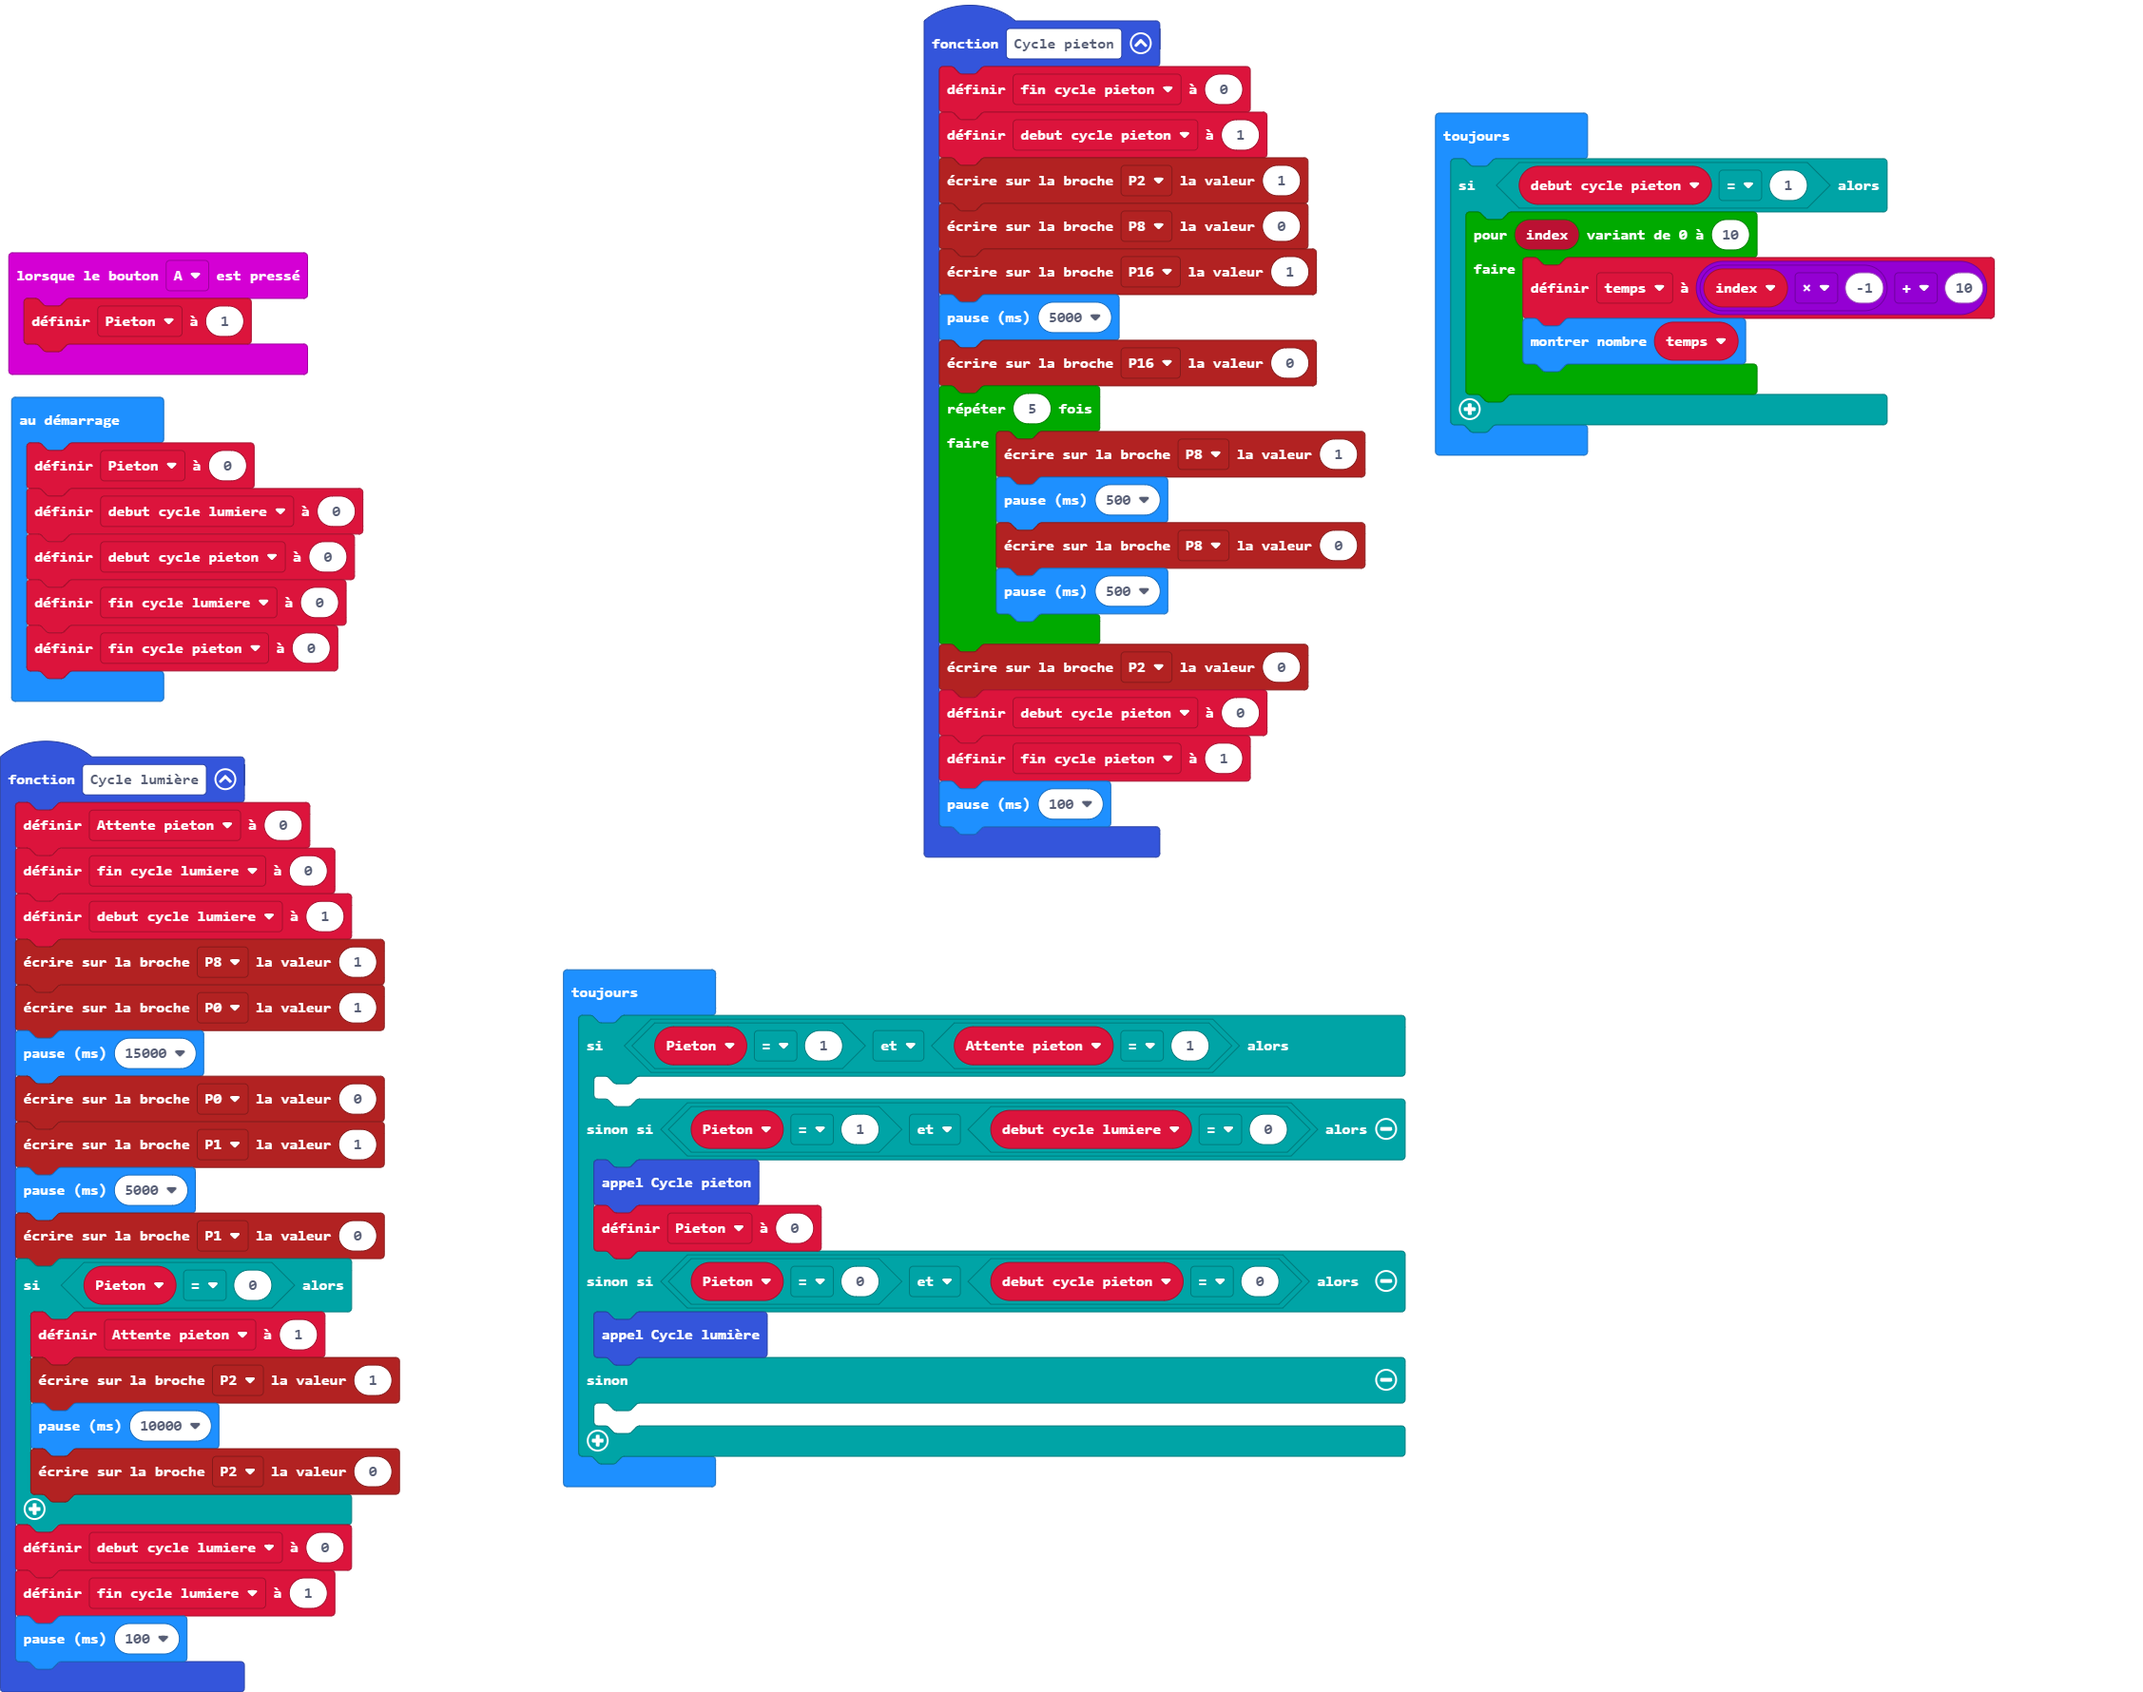
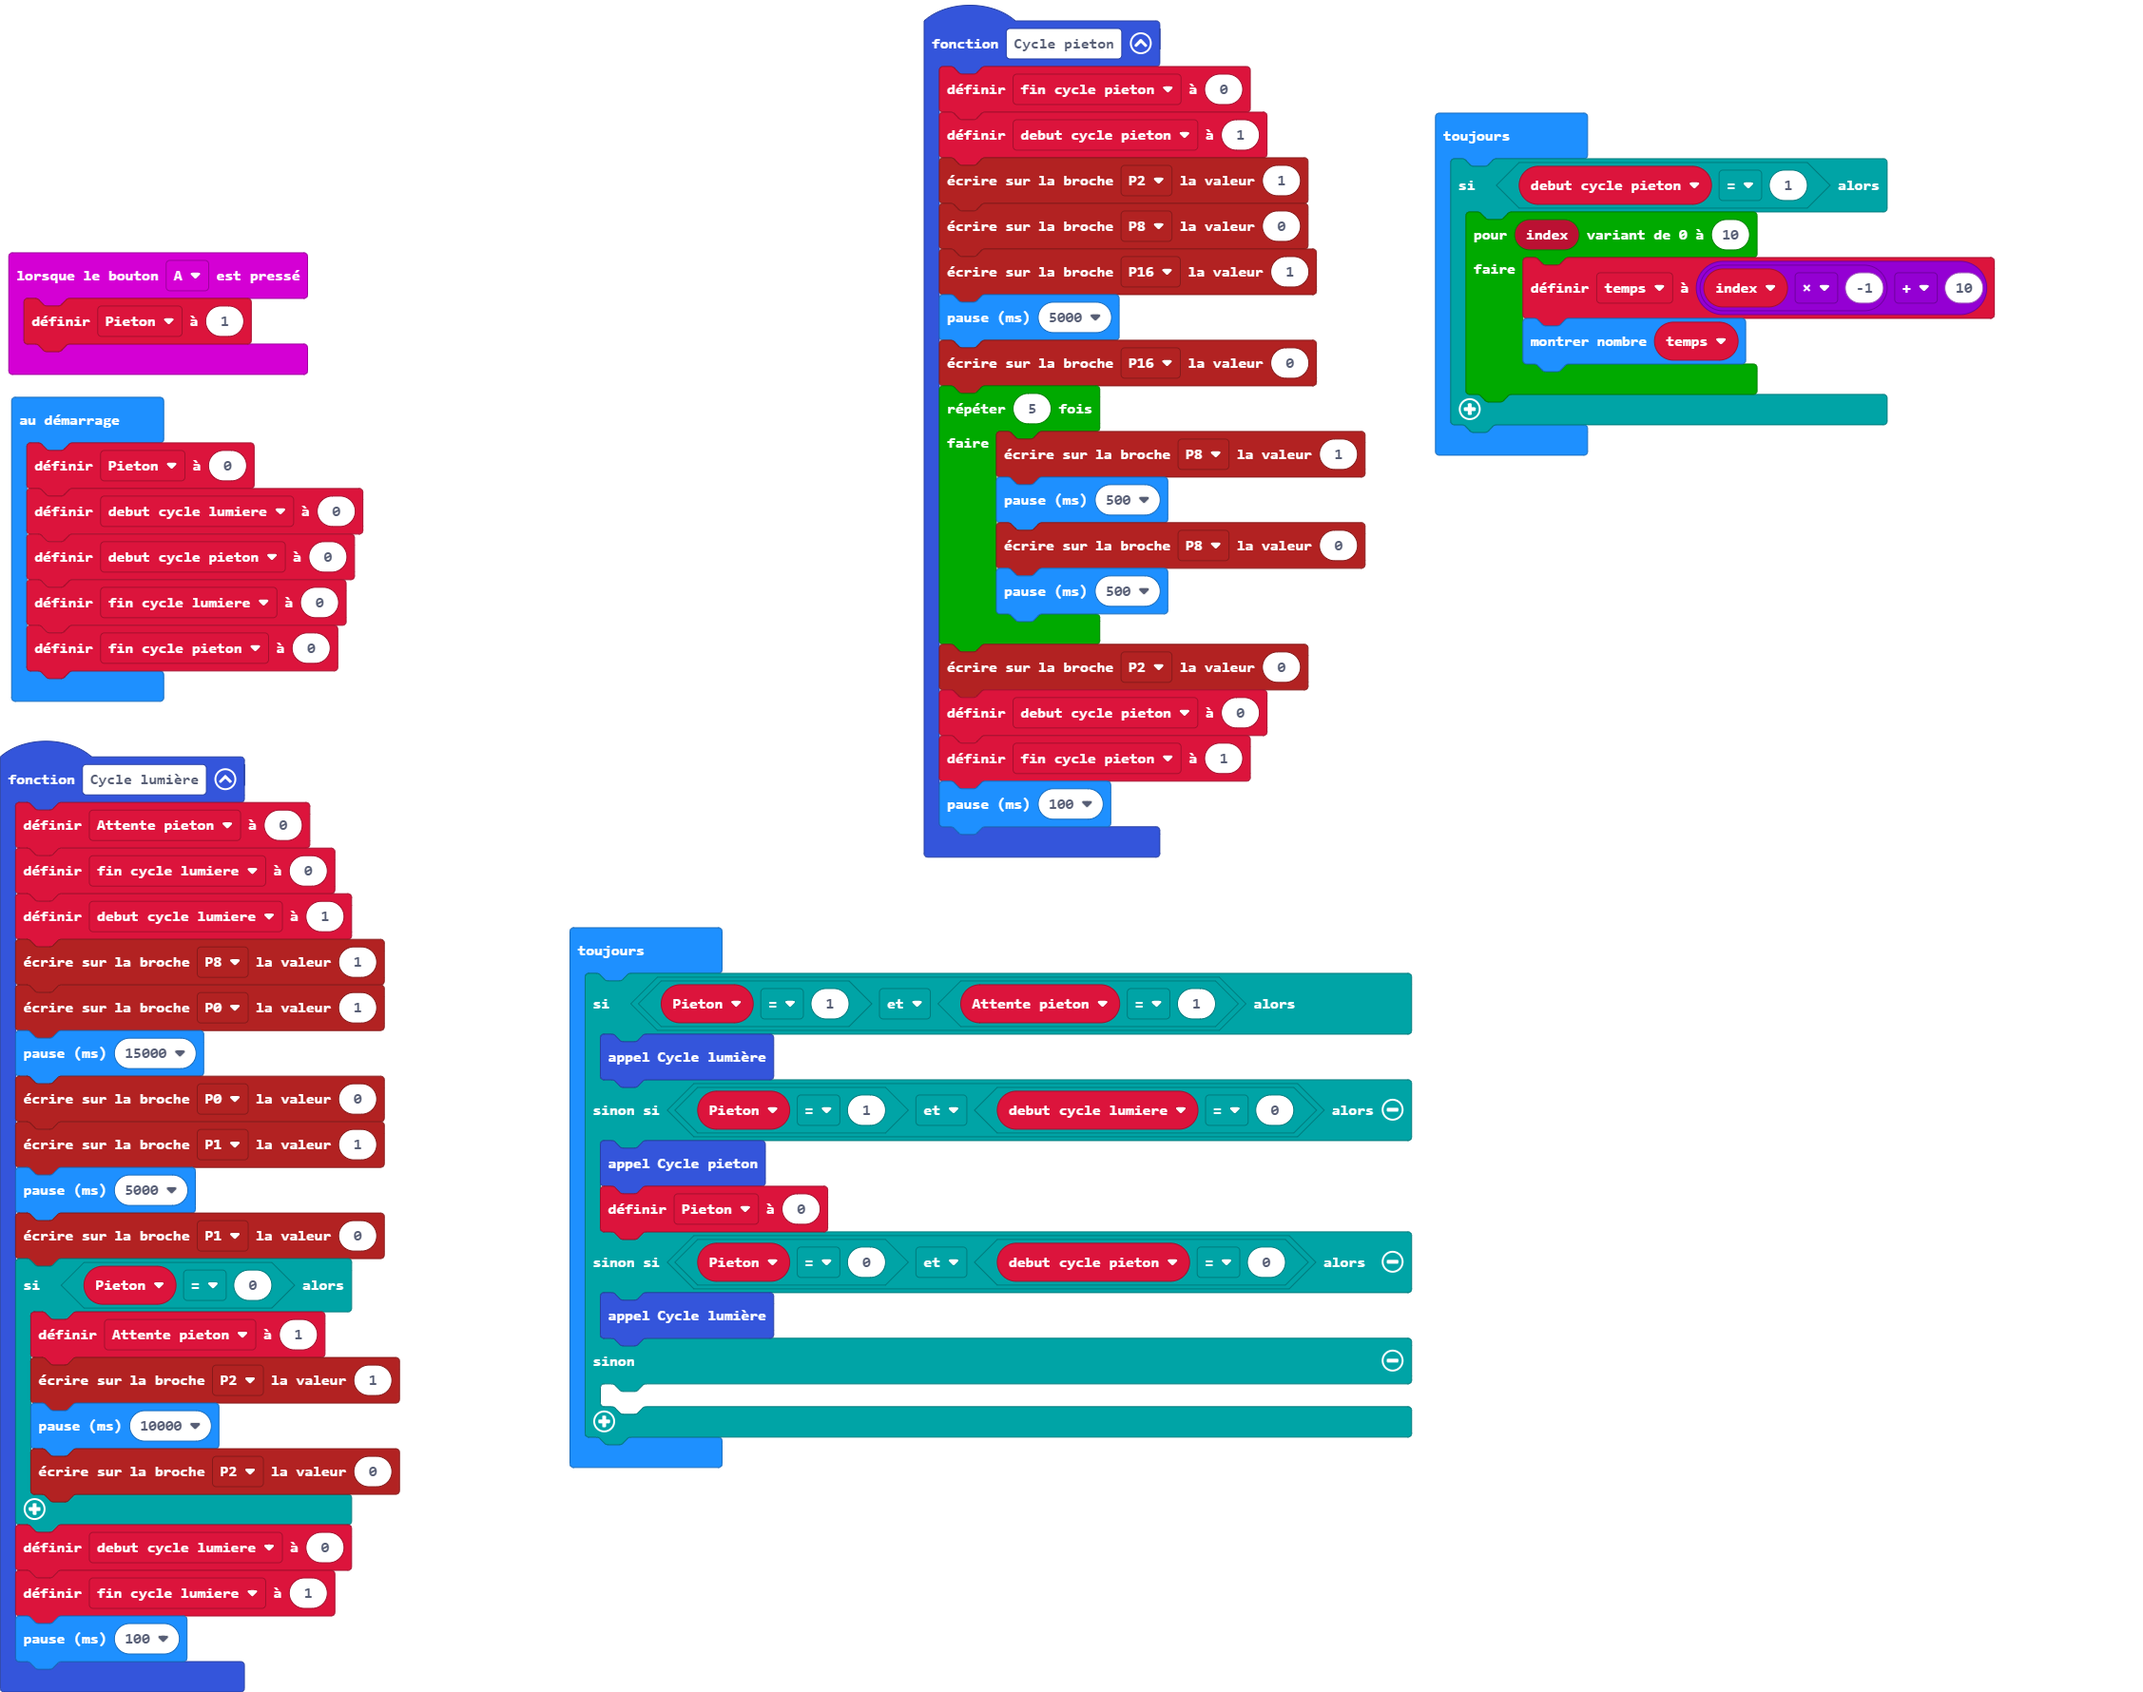
Mise à jour main.blocks, main.ts

Changed region(s): [[0.2484, 0.5253, 0.6832, 0.8961]]

diff --git a/main.ts b/main.ts
@@ -63,7 +63,7 @@ basic.forever(function () {
 })
 basic.forever(function () {
     if (Pieton == 1 && Attente_pieton == 1) {
-    	
+        Cycle_lumière()
     } else if (Pieton == 1 && debut_cycle_lumiere == 0) {
         Cycle_pieton()
         Pieton = 0
